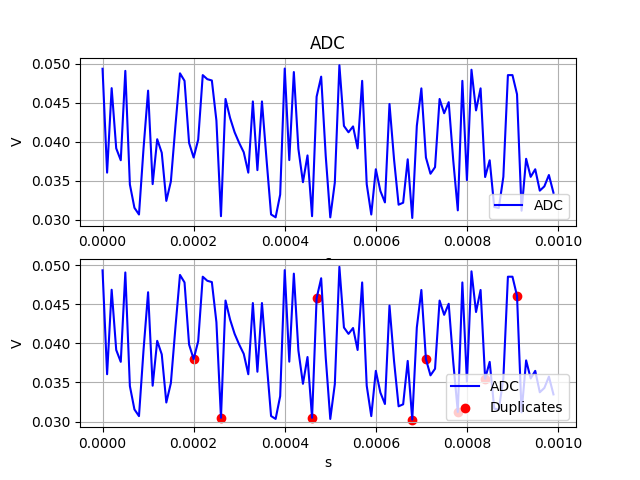
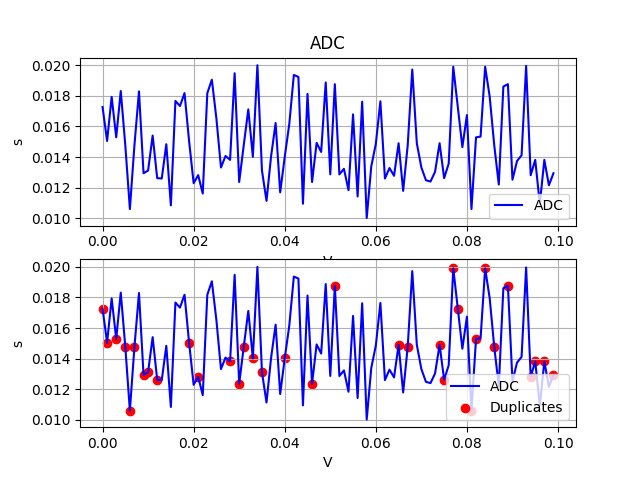
Update plots on Readme

diff --git a/exercise1/signals.py b/exercise1/signals.py
@@ -2,6 +2,7 @@ import numpy as np
 from astropy import units as u
 from detect_duplicates import detect_duplicates
 import matplotlib.pyplot as plt
+import pandas as pd
 
 
 # Class for signals
@@ -51,6 +52,9 @@ class Signal:
             raise ValueError("Input must be a Signal object.")
         if self.signal_type != other.signal_type:
             raise ValueError("Signals must be of the same type for comparison.")
+        if self._detect_duplicates() or other._detect_duplicates():
+            raise ValueError("Signals have anomalies. To compare signals for intersection they should be free of duplicate values.")
+
         if axis == "x":
             intersections = detect_duplicates(list(self.signal[0]) + list(other.signal[0]))
         elif axis == "y":
@@ -60,31 +64,45 @@ class Signal:
 
         return intersections
 
+    def remove_duplicates(self, axis):
+        df = pd.DataFrame({'x': self.signal[0], 'y': self.signal[1]})
+        df.drop_duplicates(subset=axis, inplace=True)  # Will drop duplicates on specified axis
+        self.signal = np.array((df['x'].values, df['y'].values))
+
     def display(self):
         print(f"Signal Type: {self.signal_type}")
-        print(f"Signal: {self.signal}")
+        # print(f"Signal: {self.signal}")
         print(f"Units: {self.units}")
         print(f"Axis: {self.axis}")
         print(f"Duplicate Chance: {self.duplicate_chance}")
 
 
 if __name__ == "__main__":
-
+    # Parameters
     size = 100
-    time_array = np.arange(0, size) * 1e-5
+    time_array = np.arange(0, size) * 1e-3
+    low = 10e-3
+    high = 2 * 10e-3
+    num_intersections = 10
 
-    # Sample Beam Signal
-    beam_array = np.random.uniform(2 * 10e-3, 5 * 10e-3, size)
-    # Sample BPM Signal
-    bpm_array = np.random.uniform(10e-3, 2 * 10e-3, size)
-    # Sample ADC signal
-    adc_array = np.random.uniform(3 * 10e-3, 5 * 10e-3, size)
+    beam_array = np.random.uniform(low, high, size)  # Sample Beam Signal
+    button_array = np.random.uniform(low, high, size)  # Sample BPM Signals
+    stripline_array = np.random.uniform(low, high, size)
+    adc_array = np.random.uniform(low, high, size)  # Sample ADC signal
 
+    # Introduce random intersections for BPM signals (needed for example 2)
+    indices = np.random.choice(len(button_array), num_intersections, replace=False)
+    for i in indices:  # Place the same random value at each selected index
+        random_value = np.random.uniform(low, high)
+        button_array[i] = random_value
+        stripline_array[i] = random_value
+
+    # Signal Instances
     Beam = Signal("Beam", np.array((time_array, beam_array)), frozenset((u.second, u.ampere)))
-    Button_BPM = Signal("BPM", np.array((time_array, bpm_array)), frozenset((u.second, u.Volt)), duplicate_chance=0.1, axis='y')
+    Button_BPM = Signal("BPM", np.array((time_array, button_array)), frozenset((u.second, u.Volt)), duplicate_chance=0.1, axis='y')
+    Stripline_BPM = Signal("BPM", np.array((time_array, stripline_array)), frozenset((u.s, u.V)))
     ADC = Signal("ADC", np.array((time_array, adc_array)), frozenset((u.second, u.Volt)), duplicate_chance=0.2, axis='y')
     ADC2 = Signal("ADC", np.array((time_array, adc_array)), frozenset((u.second, u.Volt)), duplicate_chance=0.2, axis='both')
-
     signals = [Beam, Button_BPM, ADC, ADC2]
 
     # Example 1: Test signals for anomalies (duplicates values)
@@ -97,12 +115,9 @@ if __name__ == "__main__":
 
     # Example 2: Test two Beam signals for intersections in Voltage (axis=y)
 
-    # Comparing button and stripline BPM signals
-    bpm_array2 = np.random.uniform(0.999 * 10e-3, 1.9999 * 10e-3, size)
-    Stripline_BPM = Signal("BPM", np.array((time_array, bpm_array2)), frozenset((u.s, u.V)))
+    Button_BPM.remove_duplicates(axis='y')  # Drop the previously introduced duplicates
 
-    intersections = Stripline_BPM.signal_intersections(Button_BPM, "y")
-
+    intersections = Stripline_BPM.signal_intersections(Button_BPM, "y")  # Compare y axis i.e. Voltage
     print("\n\nStripline and Button identical Voltages: ", intersections)
 
     ########################
@@ -124,12 +139,14 @@ if __name__ == "__main__":
     ax[1].set_xlabel(str(list(ADC.units)[0]))
     ax[1].set_ylabel(str(list(ADC.units)[1]))
 
+    adc_duplicates = ADC._detect_duplicates()
+
     for time, voltage in zip(ADC.signal[0], ADC.signal[1]):
-        if voltage in duplicates:
+        if voltage in adc_duplicates:
             ax[1].scatter(time, voltage, c='red')
 
     # To avoid adding many labels
-    if duplicates:
+    if adc_duplicates:
         ax[1].scatter([], [], c='red', label='Duplicates')
 
     ax[0].legend(loc='lower right')
@@ -148,15 +165,20 @@ if __name__ == "__main__":
 
     fig, ax = plt.subplots(3, 1)
 
-    # Plot Stripline_BPM and Button_BPM signals on separate subplots
+    # Plot Stripline_BPM signal, Button_BPM signal, and both signals,  on separate subplots
     ax[0].plot(Stripline_BPM.signal[0], Stripline_BPM.signal[1], c='blue', label='Stripline_BPM')
     ax[1].plot(Button_BPM.signal[0], Button_BPM.signal[1], c='red', label='Button_BPM')
+
+    ax[2].plot(Stripline_BPM.signal[0], Stripline_BPM.signal[1], c='blue', label='Stripline_BPM')
+    ax[2].plot(Button_BPM.signal[0], Button_BPM.signal[1], c='red', label='Button_BPM')
 
     # Set labels
     ax[0].set_xlabel(str(list(Stripline_BPM.units)[0]))
     ax[1].set_xlabel(str(list(Button_BPM.units)[0]))
+    ax[2].set_xlabel(str(list(Button_BPM.units)[0]))
     ax[0].set_ylabel(str(list(Stripline_BPM.units)[1]))
     ax[1].set_ylabel(str(list(Button_BPM.units)[1]))
+    ax[2].set_ylabel(str(list(Button_BPM.units)[1]))
 
     # Set limits
     x_min = min(min(Stripline_BPM.signal[0]), min(Button_BPM.signal[0]))
@@ -184,13 +206,15 @@ if __name__ == "__main__":
     ax[0].set_title('Stripline_BPM Signal')
     ax[1].set_title('Button_BPM Signal')
     ax[2].set_title('Signal intersections')
-    ax[2].plot(Stripline_BPM.signal[0], Stripline_BPM.signal[1], c='blue', label='Stripline_BPM')
-    ax[2].plot(Button_BPM.signal[0], Button_BPM.signal[1], c='red', label='Button_BPM')
 
     for time, voltage in zip(Button_BPM.signal[0], Button_BPM.signal[1]):
 
         if voltage in intersections:
             ax[2].scatter(time, voltage, c='red', label='Intersections')
+
+    for item in intersections:
+        print(item in Stripline_BPM.signal[1])
+        print(item in Button_BPM.signal[1])
 
     # Show the plot
     ax[0].grid(True)

diff --git a/exercise1/utils/functions.py b/exercise1/utils/functions.py
@@ -1,3 +1,4 @@
+
 def homogeneous(input_list=None):
     # Function that returns True if the elements of the input list are all of the same type
     for element in input_list:
